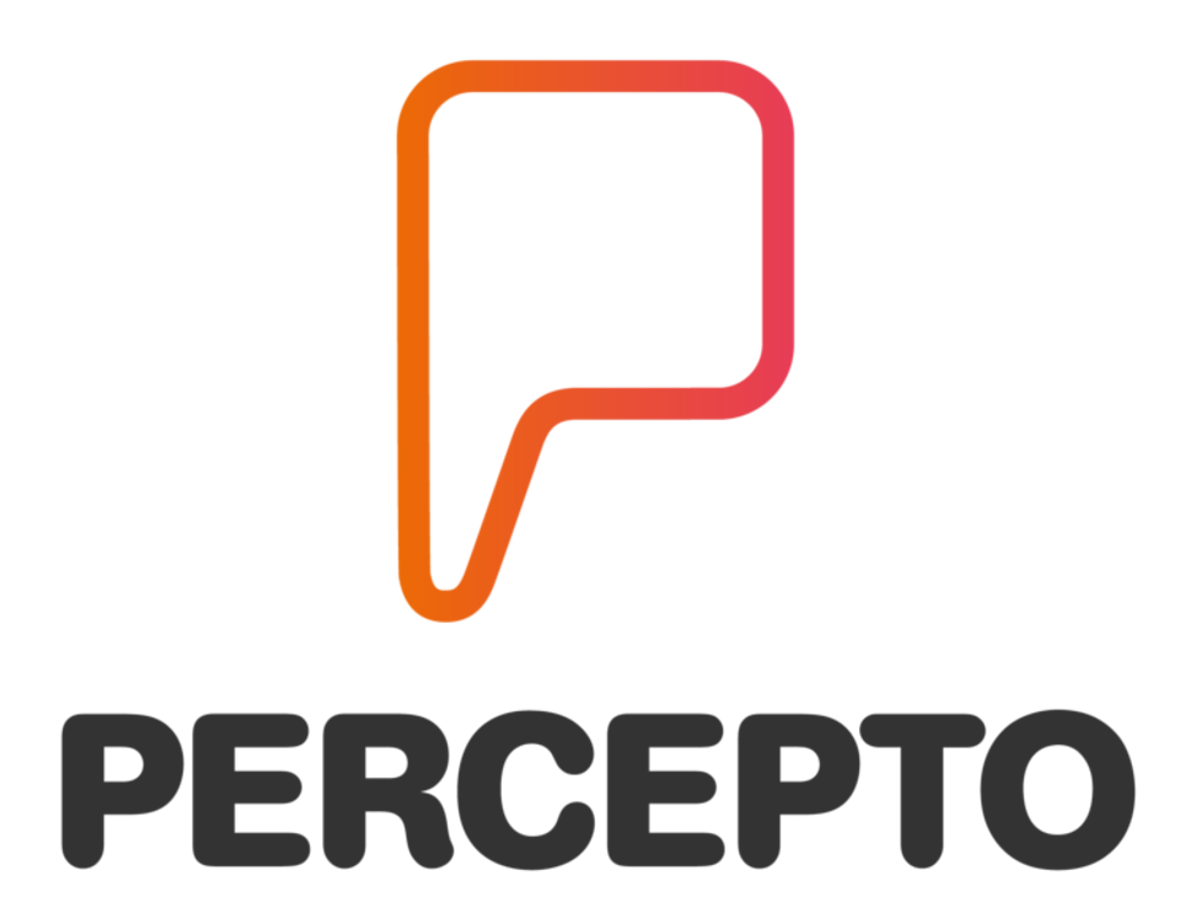
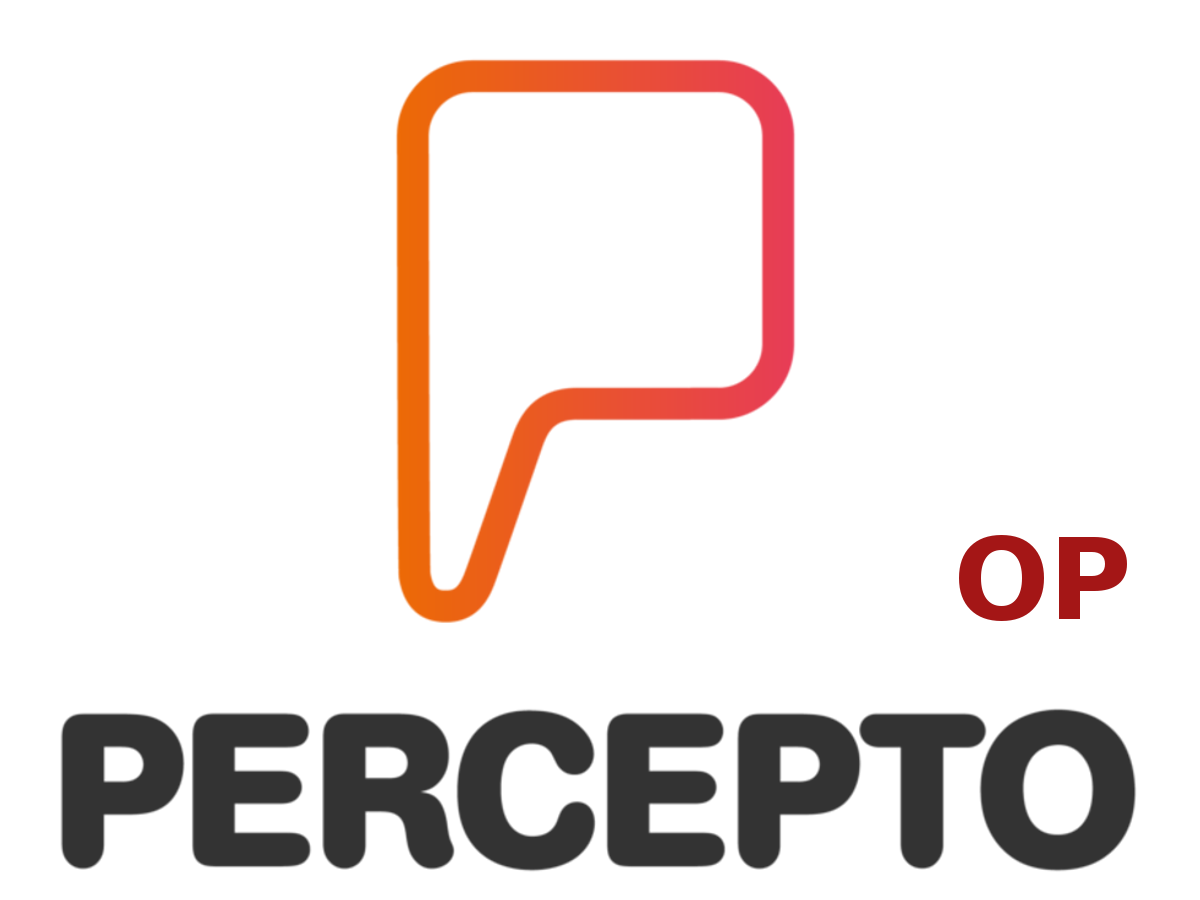
cambios

Changed region(s): [[0.8017, 0.5911, 0.9558, 0.6844]]

diff --git a/style.css b/style.css
@@ -1,10 +1,10 @@
 /*
-Theme Name: OnePress
-Theme URI: https://www.famethemes.com/themes/onepress/
-Author: FameThemes
-Author URI: http://www.famethemes.com
+Theme Name: Percepto_OP
+Theme URI: http://www.fbarrera.website
+Author: FBarrera
+Author URI: http://www.fbarrera.website
 Description: OnePress is an outstanding creative and flexible WordPress one page theme well suited for business website, portfolio, digital agency, product showcase, freelancers and everyone else who appreciate good design. The theme overall is an elegant and classic one, a fine example of Bootstrap 4 WordPress theme which compatibility with latest version of WooCommerce. (Live preview : http://www.famethemes.com/preview/?theme=OnePress)
-Version: 1.3.6
+Version: 0.0.1
 License: GNU General Public License v2 or later
 License URI: http://www.gnu.org/licenses/gpl-2.0.html
 Text Domain: onepress
